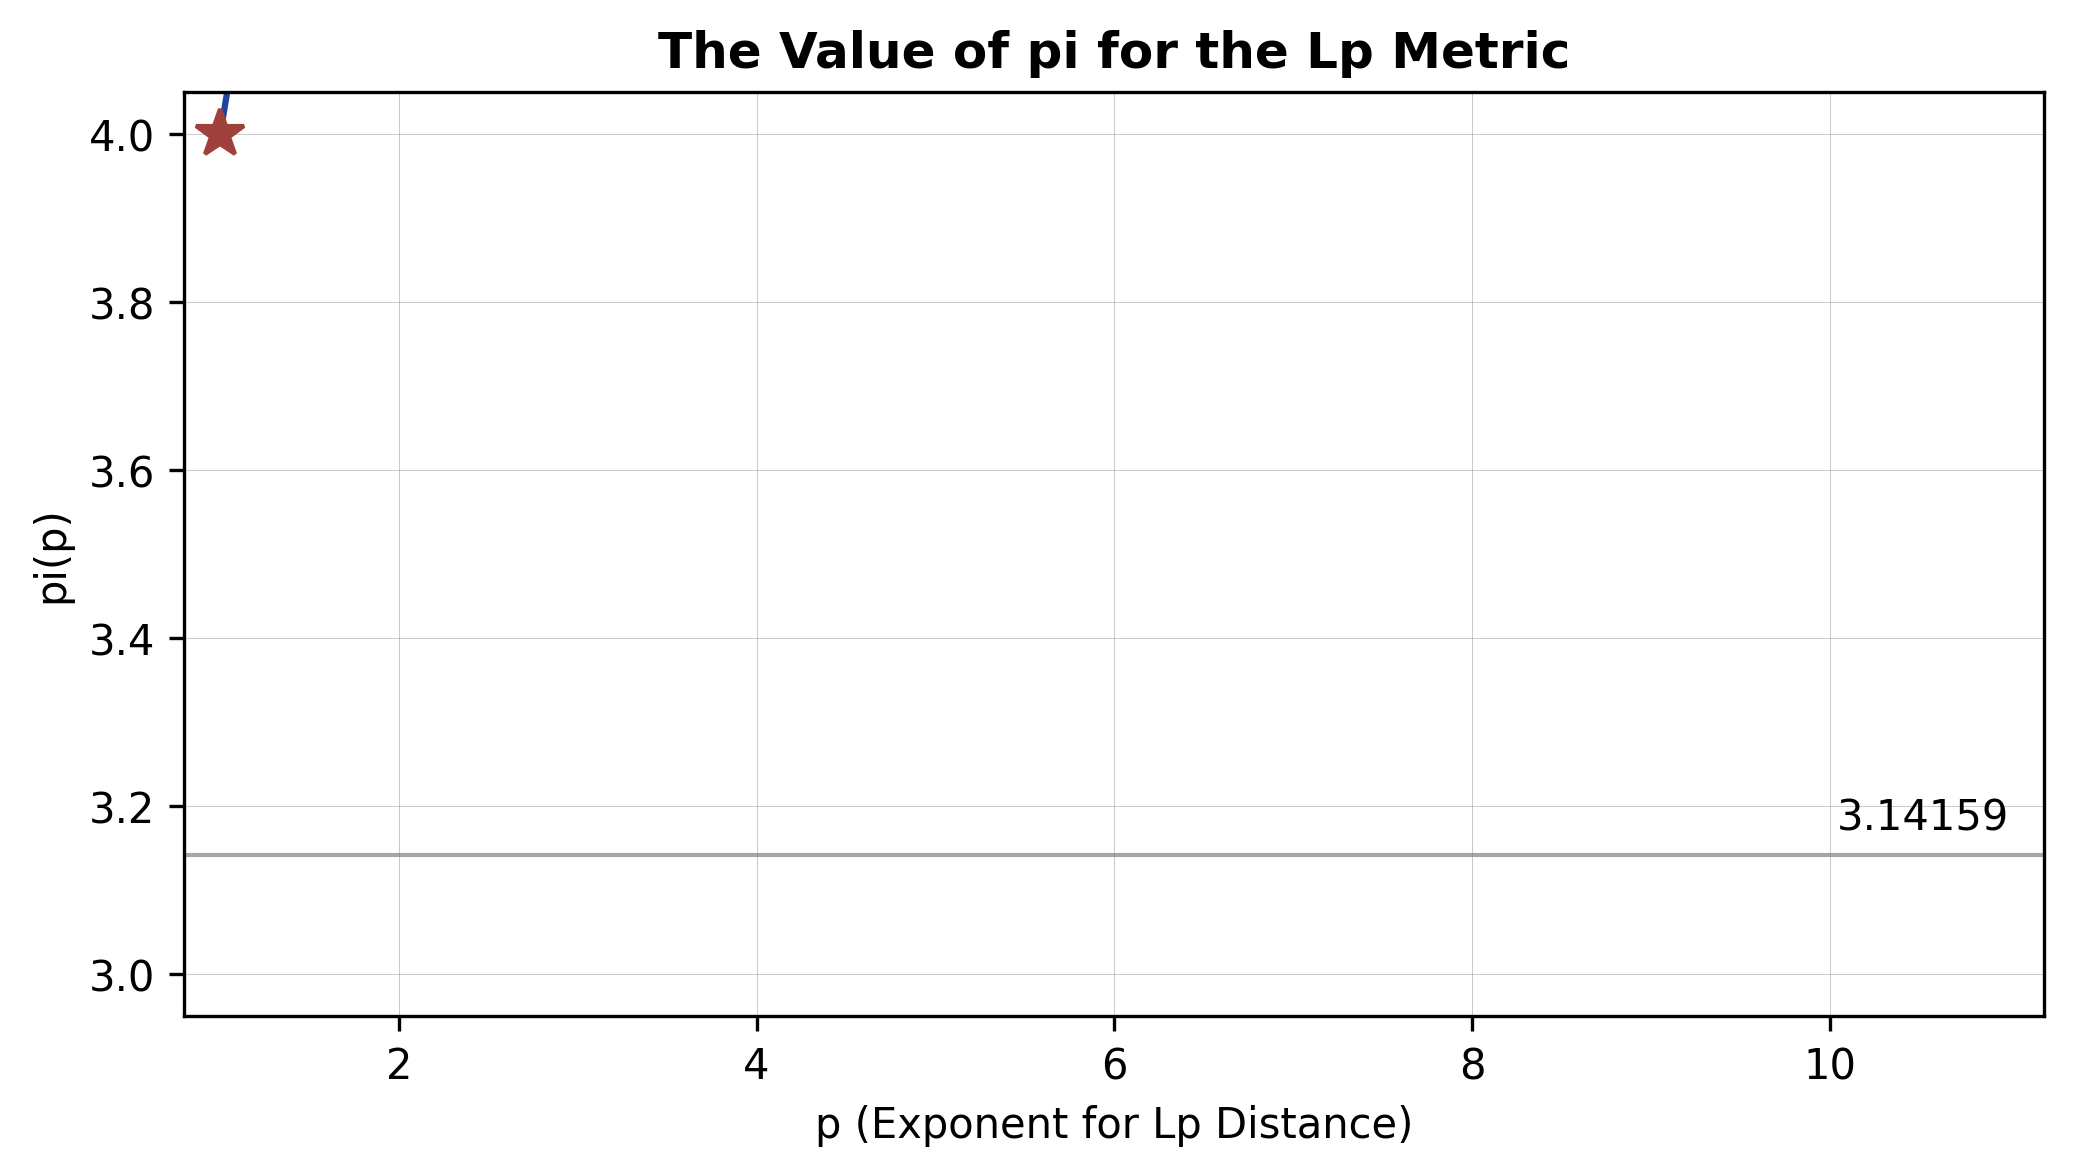
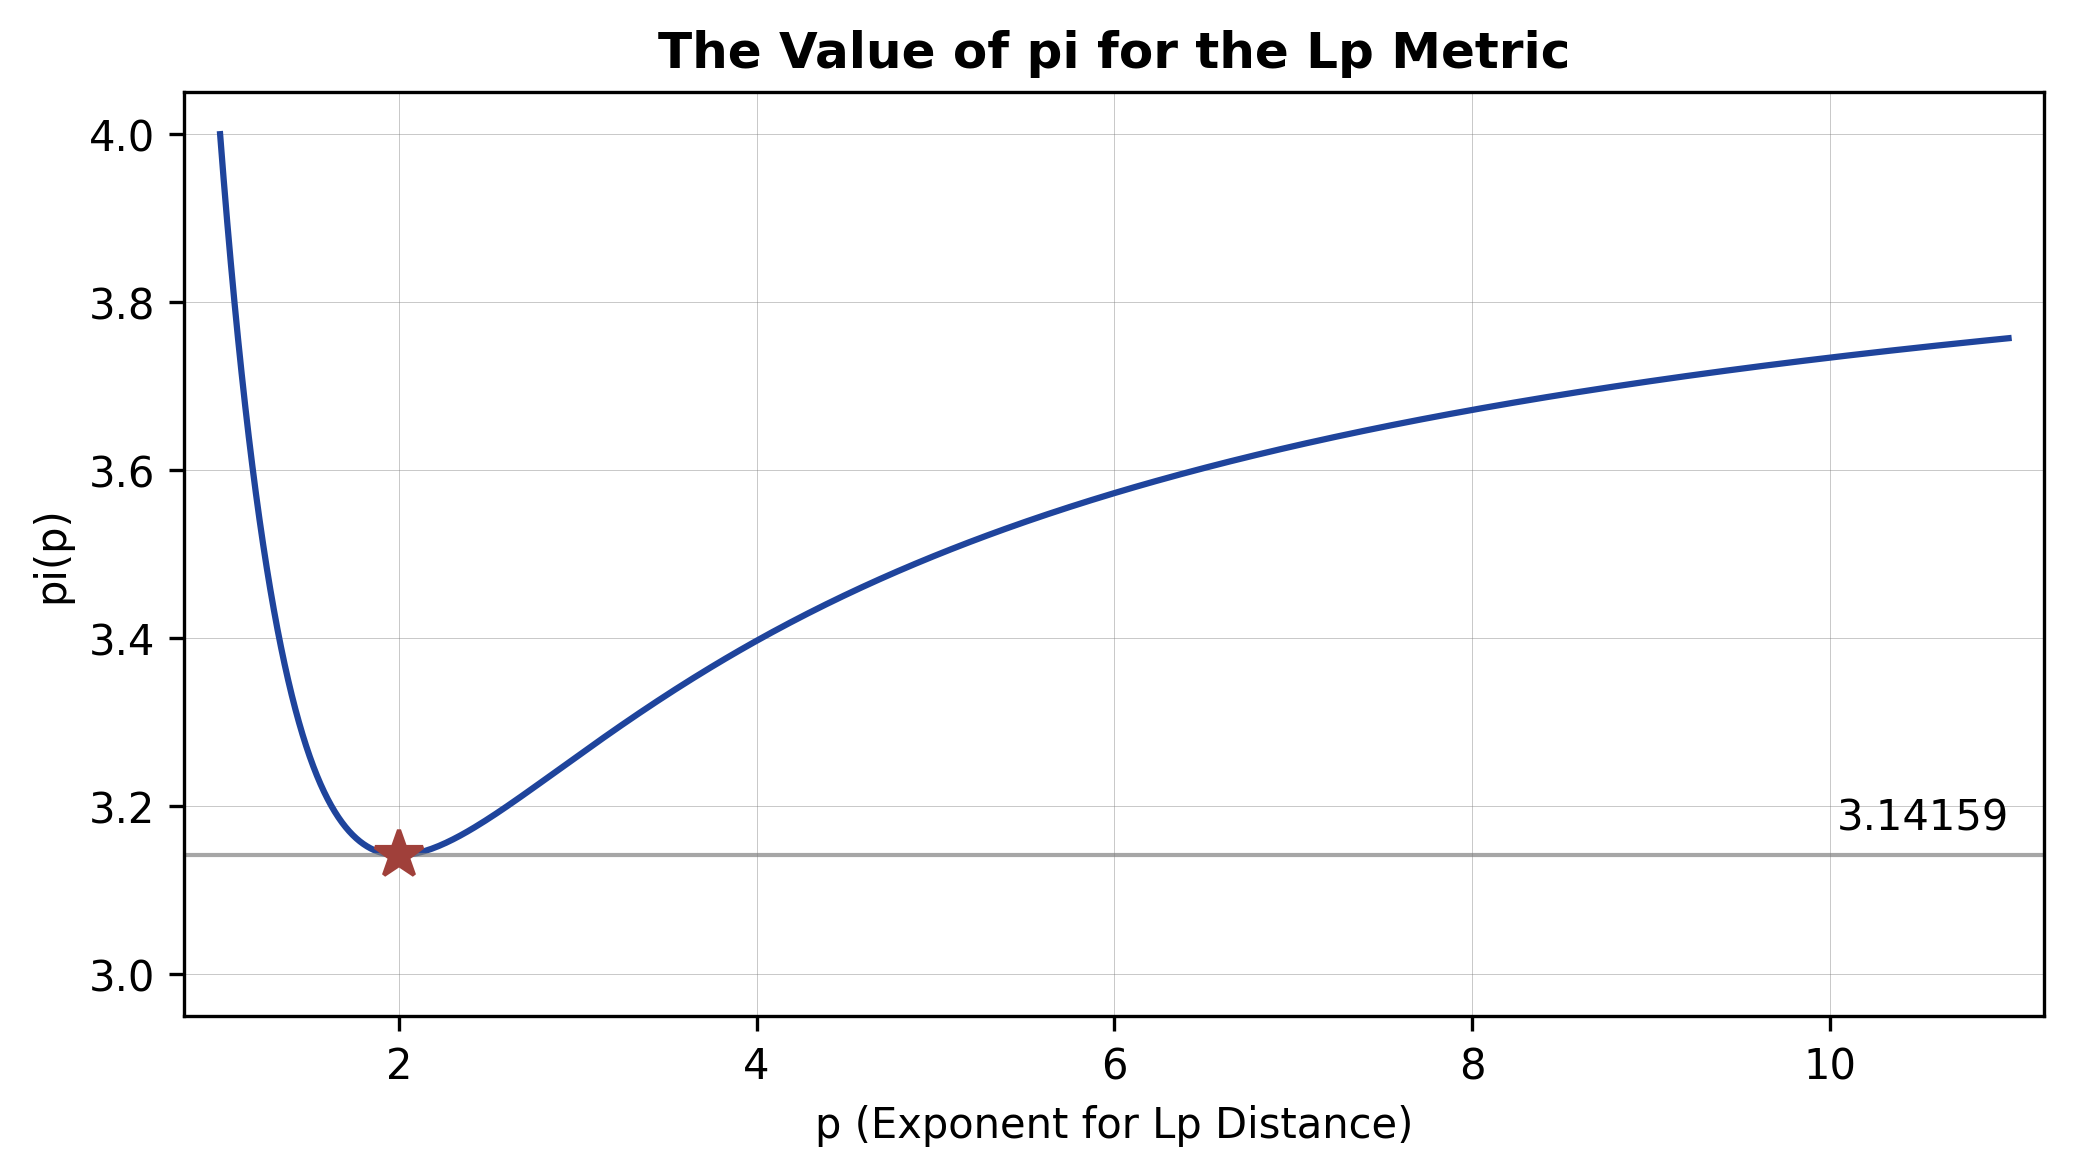
fix(spectral-compression): fix blank pi(p) graph caused by integration singularities

diff --git a/spectral-compression/scripts/test_pi.py b/spectral-compression/scripts/test_pi.py
@@ -1,0 +1,13 @@
+import numpy as np
+from scipy.integrate import quad
+
+def f(x, p):
+    if x == 1: return np.inf
+    return (1 + (x**(p*(p-1))) / ((1 - x**p)**(p-1)))**(1/p)
+
+def pi_p(p):
+    val, _ = quad(lambda x: f(x, p), 0, 1)
+    return 2 * val
+
+for p in [4.0, 10.0]:
+    print(f"p={p} -> {pi_p(p)}")

diff --git a/spectral-compression/scripts/generate_lp_figs.py b/spectral-compression/scripts/generate_lp_figs.py
@@ -34,11 +34,15 @@ plt.close()
 # 2. Pi_p Graph
 from scipy.integrate import quad
 
+def f(x, p):
+    # Avoid division by zero at x=1
+    if x == 1: return np.inf
+    return (1 + (x**(p*(p-1))) / ((1 - x**p)**(p-1)))**(1/p)
+
 def pi_p(p):
     if p == 1:
         return 4.0
-    # The true value of pi in Lp space (ratio of Lp-circumference to diameter)
-    val, _ = quad(lambda u: (u**(1-p) + (1-u)**(1-p))**(1/p), 0, 1)
+    val, _ = quad(lambda x: f(x, p), 0, 1)
     return 2 * val
 
 p_range = np.linspace(1, 11, 500)